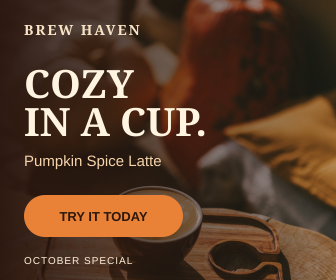
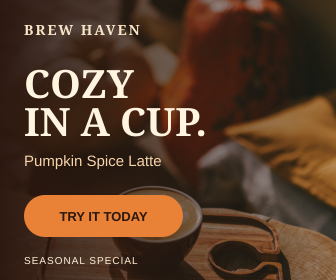
Generalize campaign wording (drop October dates), remove fake testimonial and mailto link, keep showcase-only CTA

Changed region(s): [[0.0595, 0.9143, 0.4167, 0.9429]]

diff --git a/index.html b/index.html
@@ -3,13 +3,13 @@
   <head>
     <meta charset="UTF-8" />
     <meta name="viewport" content="width=device-width, initial-scale=1.0" />
-    <meta name="description" content="Brew Haven's October Pumpkin Spice Latte campaign." />
+    <meta name="description" content="Brew Haven's seasonal Pumpkin Spice Latte campaign." />
     <title>Brew Haven — Pumpkin Spice Latte</title>
 
     <!-- Open Graph / Social Sharing -->
     <meta property="og:type" content="website" />
     <meta property="og:title" content="Brew Haven — Pumpkin Spice Latte" />
-    <meta property="og:description" content="Your cozy October pour. Creamy pumpkin, warm spice, and a rich espresso finish." />
+    <meta property="og:description" content="Your cozy seasonal pour. Creamy pumpkin, warm spice, and a rich espresso finish." />
     <meta property="og:image" content="exports/landing-page-banner.png" />
     <meta property="og:image:width" content="1600" />
     <meta property="og:image:height" content="900" />
@@ -31,21 +31,20 @@
       <button class="menu-toggle" aria-label="Toggle menu" onclick="document.querySelector('nav').classList.toggle('active')">☰</button>
       <nav aria-label="Main navigation">
         <a href="#story">Our blend</a>
-        <a href="#menu">October menu</a>
-        <a href="#reviews">Reviews</a>
-        <a class="nav-cta" href="#order">Order now</a>
+        <a href="#menu">Seasonal menu</a>
+        <a class="nav-cta" href="#order">Try it now</a>
       </nav>
     </header>
 
     <main id="top">
       <section class="hero" aria-labelledby="hero-heading">
         <div class="hero-copy">
-          <p class="eyebrow">October special · Rainy day approved</p>
-          <h1 id="hero-heading">Your cozy<br />October pour.</h1>
+          <p class="eyebrow">Seasonal special · Rainy day approved</p>
+          <h1 id="hero-heading">Your cozy<br />seasonal pour.</h1>
           <p class="hero-text">Creamy pumpkin, warm spice, and a rich espresso finish. Meet the Pumpkin Spice Latte made for sweater weather.</p>
           <a class="button" href="#order">Try it today <span aria-hidden="true">→</span></a>
         </div>
-        <div class="hero-caption">Pumpkin Spice Latte · Available all October</div>
+        <div class="hero-caption">Pumpkin Spice Latte · Available now</div>
       </section>
 
       <section class="intro section" id="story" aria-labelledby="story-heading">
@@ -68,37 +67,18 @@
         </div>
       </section>
 
-      <section class="testimonial section" id="reviews" aria-labelledby="reviews-heading">
-        <h2 id="reviews-heading" class="visually-hidden">Customer Reviews</h2>
-        <blockquote>"Best pumpkin latte I've had! Perfect for rainy afternoons on campus."</blockquote>
-        <cite>— Maria S., Student</cite>
-      </section>
-
       <section class="order section" id="order" aria-labelledby="order-heading">
-        <p class="eyebrow">Only here for October</p>
+        <p class="eyebrow">Seasonal favorite</p>
         <h2 id="order-heading">Make your rainy day delicious.</h2>
         <p>Drop by Brew Haven and ask for the Pumpkin Spice Latte. Bring a friend—cozy tastes better together.</p>
-        <a class="button light" href="mailto:hello@brewhaven.example?subject=Pumpkin%20Spice%20Latte%20Order">Start your order <span aria-hidden="true">→</span></a>
+        <span class="button light">Visit us today</span>
       </section>
     </main>
 
     <footer>
       <a class="brand" href="#top"><span class="brand-mark">B</span> Brew Haven</a>
-      <p>Made with warmth for October.</p>
+      <p>Made with warmth.</p>
       <p class="credit">Photo by <a href="https://unsplash.com/photos/a-cup-of-coffee-sitting-on-top-of-a-wooden-tray-6tcybUwV-kY">Raymond Petrik / Unsplash</a></p>
     </footer>
-
-    <style>
-      .visually-hidden {
-        position: absolute;
-        width: 1px;
-        height: 1px;
-        padding: 0;
-        margin: -1px;
-        overflow: hidden;
-        clip: rect(0, 0, 0, 0);
-        border: 0;
-      }
-    </style>
   </body>
 </html>

diff --git a/styles.css b/styles.css
@@ -254,32 +254,6 @@ nav a {
   color: var(--coffee);
 }
 
-/* Testimonial Section */
-.testimonial {
-  background: var(--cream);
-  text-align: center;
-  padding: clamp(50px, 8vw, 100px) clamp(24px, 8vw, 128px);
-}
-
-.testimonial blockquote {
-  font-family: var(--serif);
-  font-size: clamp(1.4rem, 3vw, 2rem);
-  font-style: italic;
-  color: var(--coffee);
-  max-width: 700px;
-  margin: 0 auto;
-  line-height: 1.4;
-}
-
-.testimonial cite {
-  display: block;
-  margin-top: 20px;
-  font-style: normal;
-  font-weight: 700;
-  color: var(--orange);
-  font-size: 0.95rem;
-}
-
 /* Footer */
 footer {
   padding: 30px clamp(24px, 8vw, 128px);

diff --git a/README.md b/README.md
@@ -1,4 +1,4 @@
-# Brew Haven — October Campaign
+# Brew Haven — Seasonal Campaign
 
 Selected scenario: **Option 1 — Coffee Shop / Brew Haven**. Four original layout files and PNG exports promote the Pumpkin Spice Latte using an intentionally warm, cozy palette (#F5E7D1, #D96F2A, #2B170E).
 
